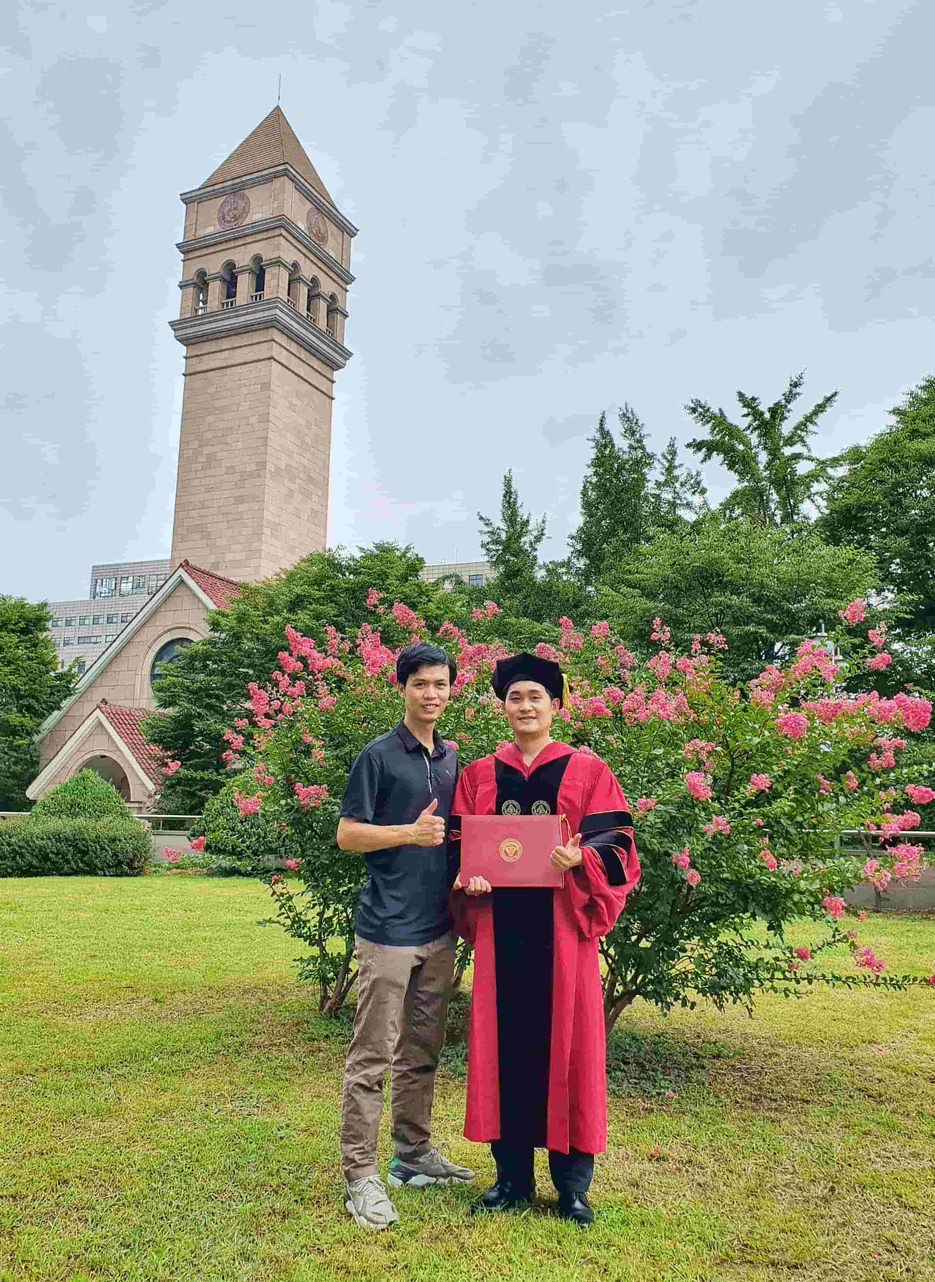
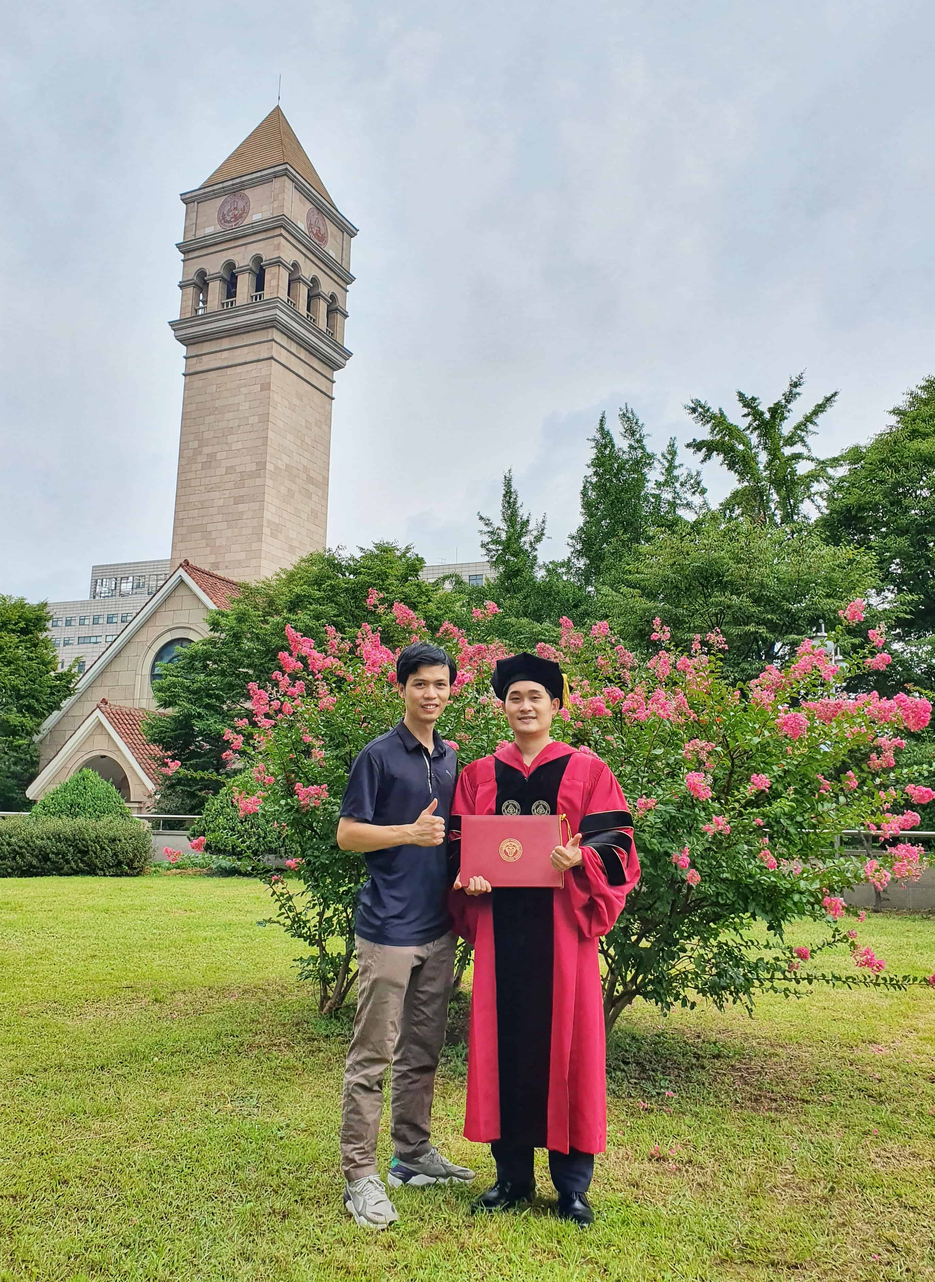
optimized speed time

Changed region(s): [[0.0, 0.2799, 1.0, 1.0], [0.1858, 0.0933, 0.3716, 0.2799], [0.4645, 0.7464, 0.5264, 0.7775]]

diff --git a/index.html b/index.html
@@ -59,7 +59,7 @@
         </div>
 
         <div class="site-title-block">
-          <a href="https://scholar.google.com/citations?user=TmmMdjEAAAAJ&hl=en" target="_blank"><h1 class="site-title">HUNG P. TRUONG</h1></a>
+          <a href="#" target="_blank"><h1 class="site-title">HUNG P. TRUONG</h1></a>
           <p class="site-description">Ph.D. in Computer Vision & Pattern Recognition</p>
         </div>
 
@@ -86,7 +86,7 @@
                 <a class="pt-trigger" href="#resume" data-animation="59" data-goto="2">Resume</a>
               </li>
               <li>
-                <a class="pt-trigger" href="#publication" data-animation="60" data-goto="3">Pulications</a>
+                <a class="pt-trigger" href="#publication" data-animation="60" data-goto="3">Publications</a>
               </li>
               <li>
                 <a class="pt-trigger" href="#research" data-animation="58" data-goto="4">Research</a>
@@ -106,9 +106,9 @@
             <!-- Social buttons -->
             <ul class="social-links">
 <!--              <li><a class="tip social-button" href="#" title="Twitter"><i class="fa fa-twitter"></i></a></li> &lt;!&ndash; Full list of social icons: http://fontawesome.io/icons/#brand &ndash;&gt;-->
-              <li><a class="tip social-button" href="https://www.facebook.com/hungthd/" title="Facebook"><i class="fa fa-facebook" style="font-size:40px"></i></a></li>
+              <li><a class="tip social-button" href="https://www.facebook.com/hungthd/" title="Facebook"><i class="fa fa-facebook" style="font-size:32px"></i></a></li>
 <!--              <li><a class="tip social-button" href="https://scholar.google.com/citations?hl=en&user=TmmMdjEAAAAJ" title="Google"><i class="fa fa-google" style="font-size:40px"></i></a></li>-->
-              <li><a class="tip social-button" href="https://www.linkedin.com/in/truong-phuoc-hung-518b9275/" title="Google Plus"><i class="fa fa-linkedin-square" style="font-size:40px"></i></a></li>
+              <li><a class="tip social-button" href="https://www.linkedin.com/in/truong-phuoc-hung-518b9275/" title="LinkedIn"><i class="fa fa-linkedin-square" style="font-size:32px"></i></a></li>
               <!--<li><a class="tip social-button" href="#" title="Youtube"><i class="fa fa-youtube"></i></a></li>-->
               <!--<li><a class="tip social-button" href="#" title="last.fm"><i class="fa fa-lastfm"></i></a></li>-->
               <!--<li><a class="tip social-button" href="#" title="Dribbble"><i class="fa fa-dribbble"></i></a></li>-->
@@ -135,8 +135,8 @@
                 <div class="col-sm-12 col-md-12 subpage-block">
                   <div class="general-info">
                     <h3>A data scientist in Computer Vision</h3>
-                    <p>Dr. Truong is currently a postdoctoral researcher at Sejong University (Korea). He obtained the Ph.D. degree in Computer Science (CS) from Sejong University (Korea) in 2021, the M.Sc. degree and the B.Sc. degree in CS from the University of Science, VNU-HCMUS (Vietnam), in 2012 and 2009, respectively.</p>
-                    <p>He is also a lecturer at the VNU-HCMUS and play a role as an instructor in several courses, such as computer systems, data structures & algorithms, and pattern recognition. He is a data scientist specializing in computer vision & pattern recognition. His research interests include Biometrics, Computer Vision, Image Analysis, Machine Learning, and Deep Learning.</p>
+                    <p>Dr. Truong is currently a postdoctoral researcher at Sejong University (Korea). He obtained a Ph.D. degree in Computer Science (CS) from Sejong University (Korea) in 2021, a M.Sc. degree and a B.Sc. degree in CS from the University of Science, VNUHCM-University of Science (Vietnam), in 2012 and 2009, respectively.</p>
+                    <p>He is also a lecturer at the VNUHCM-University of Science and play a role as an instructor in several courses, such as computer systems, data structures & algorithms, and pattern recognition. He is a data scientist specializing in computer vision & pattern recognition. His research interests include Biometrics, Computer Vision, Image Analysis, Machine Learning, and Deep Learning.</p>
                   </div>
                 </div>
 
@@ -473,7 +473,6 @@
                     <p>Ho Chi Minh Communist Youth Union</p>
                     <p>(Bằng khen TW Đoàn TNCS Hồ Chí Minh)</p>
 
-
                     <li><h4>Outstanding Young Lecturer (2014, 2015, 2016)</h4></li>
                     <p>Vietnam National University - Ho Chi Minh city</p>
                     <p>(Nhà giáo trẻ tiêu biểu ĐHQG-HCM)</p>
@@ -495,7 +494,7 @@
                       <ul>
                         <li>Thesis title: A development of dense trajectories features for human actions recognition in video</li>
                         <li>Department of Computer Vision, VNUHCM-University of Science, Vietnam</li>
-                        <li>Thesis mark: 9.5 / 10</li>
+                        <li>Thesis score: 9.5 / 10</li>
                       </ul>
                     </li>
 
@@ -532,7 +531,7 @@
                       <ul>
                         <li>Thesis title: A mobile application for rendering a real photo to art images.</li>
                         <li>Honor course, VNUHCM-University of Science, Vietnam</li>
-                        <li>Thesis mark: 8/10</li>
+                        <li>Thesis score: 8/10</li>
                       </ul>
                     </li>
                   </ol>
@@ -569,16 +568,16 @@
 
                   <h3>Conference Proceedings</h3>
                   <ol>
-                    <li><b>Truong,H.P.</b>, Kim,YG. <a href="https://doi.org/10.1007/978-3-030-01449-0_24">Enhanced Line Local Binary Patterns (EL-LBP): An Efficient Image Representation for Face Recognition</a>, ACIVS (France),2018,pp.285-296 (<b>B ranked</b>).</li>
-                    <li><b>Truong,H.P.</b>, Le, Q.M., Nguyen, T.L., Kim, YG. <a href="https://www.dbpia.co.kr/journal/articleDetail?nodeId=NODE07401427">Facial landmarks detection for evaluating facial paralysis using a modern active shape model</a>, in HCI Korea (Korea), 2018, pp. 412-415.</li>
-                    <li>Vo, TMD., <b>Truong,H.P.</b>, Le T.H. <a href="https://www.researchgate.net/publication/301345214_Discriminative_Semi-supervised_Learning_in_Manifold_Subspace_for_Face_Recognition">Discriminative semi-supervised learning in manifold subspace for face recognition</a>, EAI ICCASA (Vietnam), 2015, pp. 243-253.</li>
-                    <li>Ly, QT., <b>Truong,H.P.</b>, Le, HT. <a href="https://ieeexplore.ieee.org/document/7340892">Graph K-means with lost cluster approach for nonlinear manifold clustering</a>, ICMLC (China), 2015, pp. 25-30 (<b>C ranked</b>)</li>
-                    <li>Le, H.Q., <b>Truong,H.P.</b>, Van, T.H., Le, T.H. <a href="https://ieeexplore.ieee.org/document/7049892">A new pre-authentication protocol in Kerberos 5: biometric authentication</a>, RIVF (Vietnam), 2014, pp. 157-162.</li>
-                    <li>Le, DK.T., <b>Truong,H.P.</b>, Le, T.H. <a href="https://ieeexplore.ieee.org/document/7026207">Facial expression recognition using statistical subspace</a>, ICIP (France), 2014, pp. 5981-5985 (<b>B ranked</b>).</li>
-                    <li>Vo, D.M., <b>Truong,H.P.</b>, Le, T.H. <a href="https://www.academia.edu/6328903/Robust_facial_expression_recognition_using_Coefficient_of_Variation_Bag_of_features">Robust facial expression recognition using Coefficient of Variation Bag of features</a>, NICS (Vietnam), 2014, pp. 448-457.</li>
-                    <li>Le, T.H., <b>Truong,H.P.</b>, Do, HT.T., Vo, D.M. <a href="https://doi.org/10.1145/2542050.2542061">On approaching 2D-FPCA technique to improve image representation in frequency domain</a>, SoICT (Vietnam), 2013, pp. 172-180.</li>
-                    <li><b>Truong,H.P.</b>, Le, T.H. <a href="https://doi.org/10.1145/2350716.2350738">Fusion of bidirectional image matrices and 2D-LDA: an efficient approach for face recognition</a>, SoICT (Vietnam), 2012, pp. 142-148.</li>
-                    <li><b>Truong,H.P.</b>, <i>et al.</i> Quy trình đánh giá an ninh cho KDC trong hệ thống mạng triển khai giao thức Kerberos 5, hội nghị khoa học lần thứ 9 trường ĐH Khoa học Tự nhiên – ĐHQG HCM, 2014.</li>
+                    <li><b>Truong, H.P.</b>, Kim, YG. <a href="https://doi.org/10.1007/978-3-030-01449-0_24">Enhanced Line Local Binary Patterns (EL-LBP): An Efficient Image Representation for Face Recognition</a>, ACIVS (France),2018,pp.285-296 (<b>B ranked</b>).</li>
+                    <li><b>Truong, H.P.</b>, Le, Q.M., Nguyen, T.L., Kim, YG. <a href="https://www.dbpia.co.kr/journal/articleDetail?nodeId=NODE07401427">Facial landmarks detection for evaluating facial paralysis using a modern active shape model</a>, in HCI Korea (Korea), 2018, pp. 412-415.</li>
+                    <li>Vo, TMD., <b>Truong, H.P.</b>, Le T.H. <a href="https://www.researchgate.net/publication/301345214_Discriminative_Semi-supervised_Learning_in_Manifold_Subspace_for_Face_Recognition">Discriminative semi-supervised learning in manifold subspace for face recognition</a>, EAI ICCASA (Vietnam), 2015, pp. 243-253.</li>
+                    <li>Ly, QT., <b>Truong, H.P.</b>, Le, HT. <a href="https://ieeexplore.ieee.org/document/7340892">Graph K-means with lost cluster approach for nonlinear manifold clustering</a>, ICMLC (China), 2015, pp. 25-30 (<b>C ranked</b>)</li>
+                    <li>Le, H.Q., <b>Truong, H.P.</b>, Van, T.H., Le, T.H. <a href="https://ieeexplore.ieee.org/document/7049892">A new pre-authentication protocol in Kerberos 5: biometric authentication</a>, RIVF (Vietnam), 2014, pp. 157-162.</li>
+                    <li>Le, DK.T., <b>Truong, H.P.</b>, Le, T.H. <a href="https://ieeexplore.ieee.org/document/7026207">Facial expression recognition using statistical subspace</a>, ICIP (France), 2014, pp. 5981-5985 (<b>B ranked</b>).</li>
+                    <li>Vo, D.M., <b>Truong, H.P.</b>, Le, T.H. <a href="https://www.academia.edu/6328903/Robust_facial_expression_recognition_using_Coefficient_of_Variation_Bag_of_features">Robust facial expression recognition using Coefficient of Variation Bag of features</a>, NICS (Vietnam), 2014, pp. 448-457.</li>
+                    <li>Le, T.H., <b>Truong, H.P.</b>, Do, HT.T., Vo, D.M. <a href="https://doi.org/10.1145/2542050.2542061">On approaching 2D-FPCA technique to improve image representation in frequency domain</a>, SoICT (Vietnam), 2013, pp. 172-180.</li>
+                    <li><b>Truong, H.P.</b>, Le, T.H. <a href="https://doi.org/10.1145/2350716.2350738">Fusion of bidirectional image matrices and 2D-LDA: an efficient approach for face recognition</a>, SoICT (Vietnam), 2012, pp. 142-148.</li>
+                    <li><b>Truong, H.P.</b>, <i>et al.</i> Quy trình đánh giá an ninh cho KDC trong hệ thống mạng triển khai giao thức Kerberos 5, hội nghị khoa học lần thứ 9 trường ĐH Khoa học Tự nhiên – ĐHQG HCM, 2014.</li>
                   </ol>
 
                 </div>
@@ -779,8 +778,8 @@
 
                   <!-- Photo item 8 -->
                   <figure class="item" data-groups='["all","graduation"]'>
-                  <a href="images/portfolio/phd-graduation/1629461519553-11-01.jpeg" class="lightbox" title="with Mr. Felix">
-                      <img src="images/portfolio/phd-graduation/1629461519553-11-01.jpeg" alt="">
+                  <a href="images/portfolio/phd-graduation/1629461519553-13-01.jpeg" class="lightbox" title="with Mr. Felix">
+                      <img src="images/portfolio/phd-graduation/1629461519553-13-01.jpeg" alt="">
                       <div>
                         <h5 class="name">Graduation</h5>
                         <small>Graduation day</small>
@@ -837,6 +836,30 @@
                     </a>
                   </figure>
 
+                  <!-- Photo item 13 -->
+                  <figure class="item" data-groups='["all","graduation"]'>
+                  <a href="images/portfolio/phd-graduation/1629507261003-0-01.jpeg" class="lightbox" title="with with Ph.D certificate">
+                      <img src="images/portfolio/phd-graduation/1629507261003-0-01.jpeg" alt="">
+                      <div>
+                        <h5 class="name">Graduation</h5>
+                        <small>Graduation day</small>
+                        <i class="fa fa-image"></i>
+                      </div>
+                    </a>
+                  </figure>
+
+                  <!-- Photo item 14 -->
+                  <figure class="item" data-groups='["all","graduation"]'>
+                  <a href="images/portfolio/phd-graduation/1629461450286-18-01.jpeg" class="lightbox" title="at school yard">
+                      <img src="images/portfolio/phd-graduation/1629461450286-18-01.jpeg" alt="">
+                      <div>
+                        <h5 class="name">Graduation</h5>
+                        <small>Graduation day</small>
+                        <i class="fa fa-image"></i>
+                      </div>
+                    </a>
+                  </figure>
+
                   <!-- Activities -->
                     <!-- Photo item 1 -->
                   <figure class="item" data-groups='["all","activities"]'>
@@ -888,8 +911,8 @@
 
                   <!-- Photo item 5 -->
                   <figure class="item" data-groups='["all","activities"]'>
-                  <a href="images/portfolio/activities/20210904_145443-01-min.jpeg" class="lightbox" title="See the sky">
-                      <img src="images/portfolio/activities/20210904_145443-01-min.jpeg" alt="">
+                  <a href="images/portfolio/activities/20210904_145443-01.jpeg" class="lightbox" title="See the sky">
+                      <img src="images/portfolio/activities/20210904_145443-01.jpeg" alt="">
                       <div>
                         <h5 class="name">Activities</h5>
                         <small>In the forest</small>
@@ -900,11 +923,59 @@
 
                   <!-- Photo item 6 -->
                   <figure class="item" data-groups='["all","activities"]'>
-                  <a href="images/portfolio/activities/1630740141900-0-01.jpeg" class="lightbox" title="The peak">
-                      <img src="images/portfolio/activities/1630740141900-0-01.jpeg" alt="">
+                  <a href="images/portfolio/activities/20210922_190934-01.jpeg" class="lightbox" title="night city view">
+                      <img src="images/portfolio/activities/20210922_190934-01.jpeg" alt="">
                       <div>
                         <h5 class="name">Activities</h5>
-                        <small>On the mountain</small>
+                        <small>At Dongdaemun park</small>
+                        <i class="fa fa-image"></i>
+                      </div>
+                    </a>
+                  </figure>
+
+                  <!-- Photo item 7 -->
+                  <figure class="item" data-groups='["all","activities"]'>
+                  <a href="images/portfolio/activities/1624149684391.jpg" class="lightbox" title="At the garden">
+                      <img src="images/portfolio/activities/1624149684391.jpg" alt="">
+                      <div>
+                        <h5 class="name">Activities</h5>
+                        <small>At Jingwangsa temple</small>
+                        <i class="fa fa-image"></i>
+                      </div>
+                    </a>
+                  </figure>
+
+                  <!-- Photo item 8 -->
+                  <figure class="item" data-groups='["all","activities"]'>
+                  <a href="images/portfolio/activities/1632316582676.jpg" class="lightbox" title="Jogging">
+                      <img src="images/portfolio/activities/1632316582676.jpg" alt="">
+                      <div>
+                        <h5 class="name">Activities</h5>
+                        <small>At Dongdaemun park</small>
+                        <i class="fa fa-image"></i>
+                      </div>
+                    </a>
+                  </figure>
+
+                  <!-- Photo item 9 -->
+                  <figure class="item" data-groups='["all","activities"]'>
+                  <a href="images/portfolio/activities/IMG_7624.JPG" class="lightbox" title="Templestay">
+                      <img src="images/portfolio/activities/IMG_7624.JPG" alt="">
+                      <div>
+                        <h5 class="name">Activities</h5>
+                        <small>At Temple</small>
+                        <i class="fa fa-image"></i>
+                      </div>
+                    </a>
+                  </figure>
+
+                  <!-- Photo item 10 -->
+                  <figure class="item" data-groups='["all","activities"]'>
+                  <a href="images/portfolio/activities/1623587319189-0.jpg" class="lightbox" title="On the peak">
+                      <img src="images/portfolio/activities/1623587319189-0.jpg" alt="">
+                      <div>
+                        <h5 class="name">Activities</h5>
+                        <small>At the mountain</small>
                         <i class="fa fa-image"></i>
                       </div>
                     </a>

diff --git a/js/main.js b/js/main.js
@@ -5,4 +5,4 @@ $(document).ready(function(){var $portfolio_container=$("#portfolio_grid");$port
 '<div class="mfp-close"></div>'+
 '<iframe class="mfp-iframe" frameborder="0" allowfullscreen></iframe>'+
 '<div class="mfp-title mfp-bottom-iframe-title"></div>'+
-'</div>',patterns:{youtube:{index:'youtube.com/',id:'v=',src:'//www.youtube.com/embed/%id%?autoplay=1'},vimeo:{index:'vimeo.com/',id:'/',src:'//player.vimeo.com/video/%id%?autoplay=1'},gmaps:{index:'//maps.google.',src:'%id%&output=embed'}},srcAction:'iframe_src',},callbacks:{markupParse:function(template,values,item){values.title=item.el.attr('title');}},});});$(window).on('load',function(){$(".preloader").fadeOut("slow");});$(window).on('resize',function(){mobileMenuHide();});$('.site-main-menu').on("click","a",function(e){mobileMenuHide();});})(jQuery);
+'</div>',patterns:{youtube:{index:'youtube.com/',id:'v=',src:'//www.youtube.com/embed/%id%?autoplay=1'},vimeo:{index:'vimeo.com/',id:'/',src:'//player.vimeo.com/video/%id%?autoplay=1'},gmaps:{index:'//maps.google.',src:'%id%&output=embed'}},srcAction:'iframe_src',},callbacks:{markupParse:function(template,values,item){values.title=item.el.attr('title');}},});});$(window).on('load',function(){$(".preloader").fadeOut("fast");});$(window).on('resize',function(){mobileMenuHide();});$('.site-main-menu').on("click","a",function(e){mobileMenuHide();});})(jQuery);

diff --git a/css/custom.css b/css/custom.css
@@ -36,7 +36,6 @@
 .block-title ol ul{
     position: relative;
     line-height: 180%; /*or whatever height you like*/
-    margin-left: 1em;
 }
 
 .block-title span{
@@ -48,9 +47,13 @@
 
 .block-title p{
     font-family: Oswald,Helvetica,sans-serif;
-    font-size: 90%;
+    font-size: 100%;
 }
 
 .subpage-block span{
     text-align: justify;
+}
+
+.te-primary span{
+    font-size: 95%;
 }
